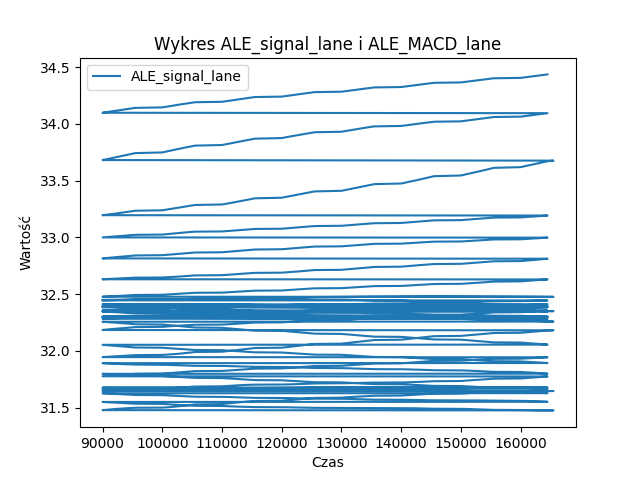
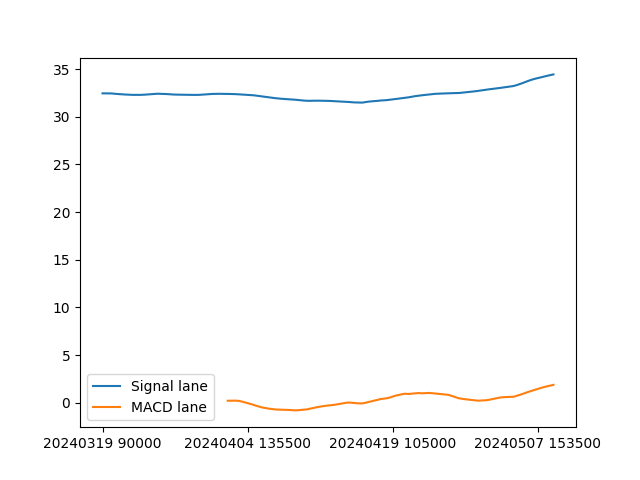
updating

diff --git a/utils.py b/utils.py
@@ -1,5 +1,6 @@
 import pandas as pd
 import matplotlib.pyplot as plt
+import numpy as np
 
 from data import Data
 
@@ -17,8 +18,8 @@ class Utils(Data):
         df = self.read_csv_from_root()
         df2 = df.copy()
 
-        window_size_1 = int(4 * 288)
-        window_size_2 = int(9 * 288)
+        window_size_1 = int(1 * 288)
+        window_size_2 = int(3 * 288)
 
         for column in df.columns:
             ma1 = df[column].rolling(window=window_size_1).mean()
@@ -112,26 +113,28 @@ class Utils(Data):
         df = self.MACD_signal_lane_combined()
 
         # Wybierz potrzebne kolumny z DataFrame
-        df = df[["data", "czas", "ALE_signal_lane", "ALE_MACD_lane"]]
+        df = df[["czas", "data", "ALE_signal_lane", "ALE_MACD_lane"]]
 
-        # Utwórz nowy obraz (figurę)
+        # check data i czas types
+        print(df["data"].dtype)
+        print(df["czas"].dtype)
+
+        # convert data and czas to string, then merge them
+        df["data"] = df["data"].astype(str)
+        df["czas"] = df["czas"].astype(str)
+        df["datetime"] = df["data"] + " " + df["czas"]
+
+        # plot  
         fig, ax = plt.subplots()
-
-        # Narysuj pierwszą linię - ALE_signal_lane
-        ax.plot(df["data"], df["ALE_signal_lane"], label="ALE_signal_lane")
-
-        # Narysuj drugą linię - ALE_MACD_lane
-        ax.plot(df["czas"], df["ALE_MACD_lane"], label="ALE_MACD_lane")
-
-        # Dodaj legendę
+        ax.plot(df["datetime"], df["ALE_signal_lane"], label="Signal lane")
+        ax.plot(df["datetime"], df["ALE_MACD_lane"], label="MACD lane")
         ax.legend()
 
-        # Dodaj tytuł i etykiety osi
-        ax.set_title("Wykres ALE_signal_lane i ALE_MACD_lane")
-        ax.set_xlabel("Czas")
-        ax.set_ylabel("Wartość")
+        # x ticks
+        ax.set_xticks(np.arange(0, len(df), 1000))
 
-        # save figure
-        fig.savefig("plot.png")
-
-        fig.show()
+        # rotate x labels
+        plt.xticks(rotation=0)
+        
+        # save plot
+        plt.savefig("plot.png")
